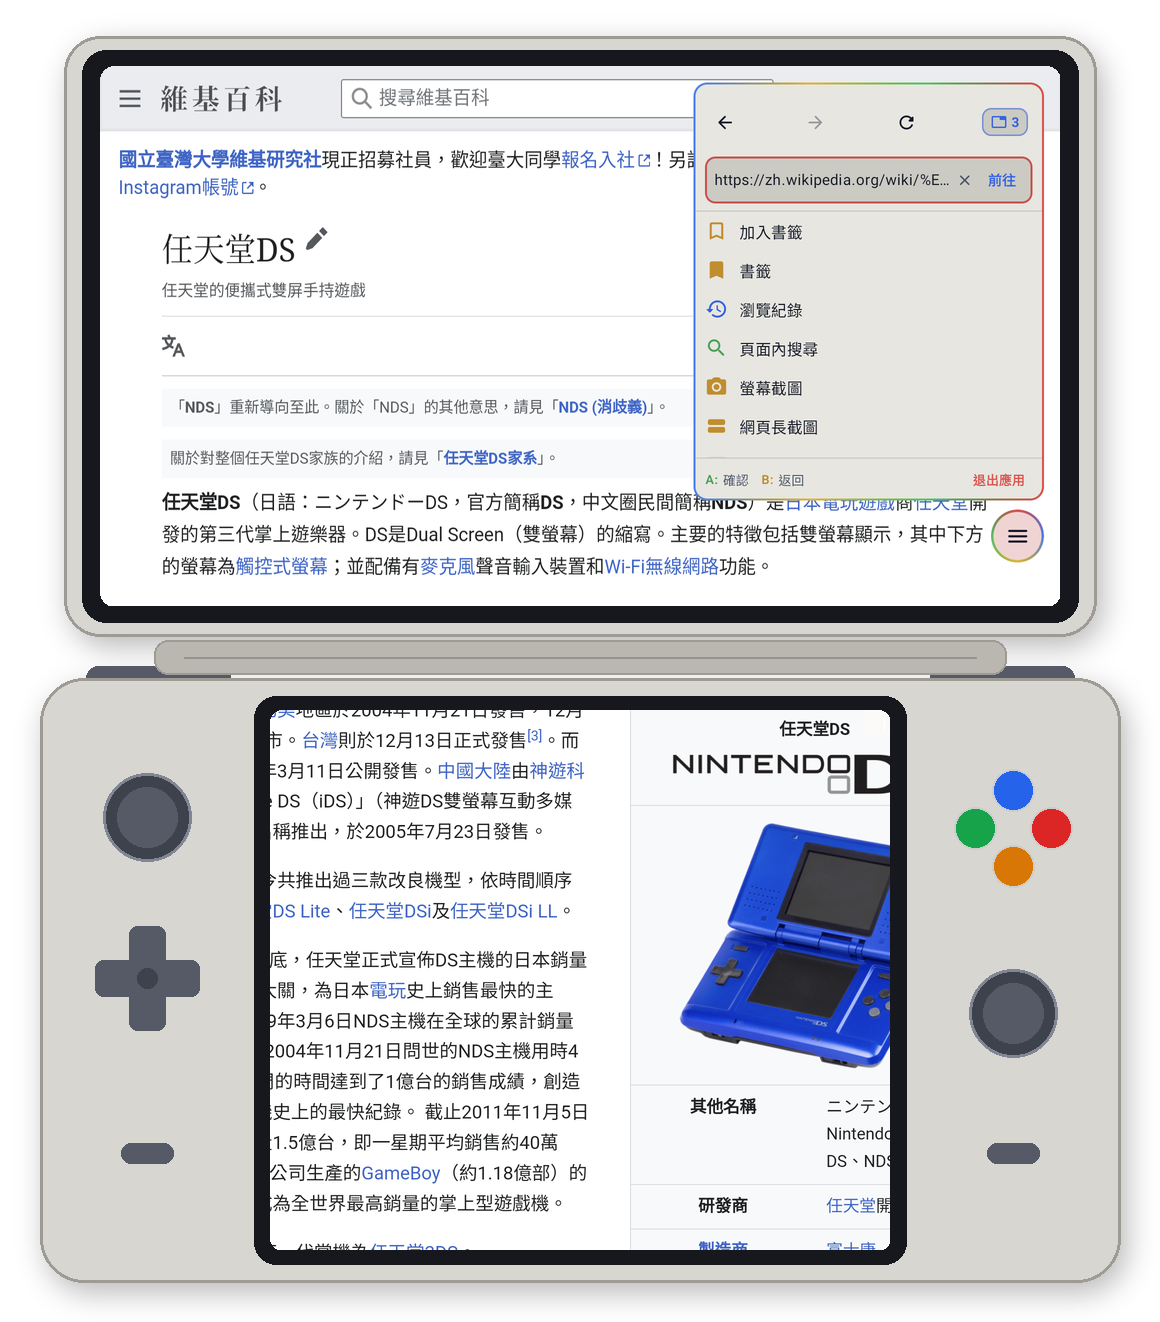
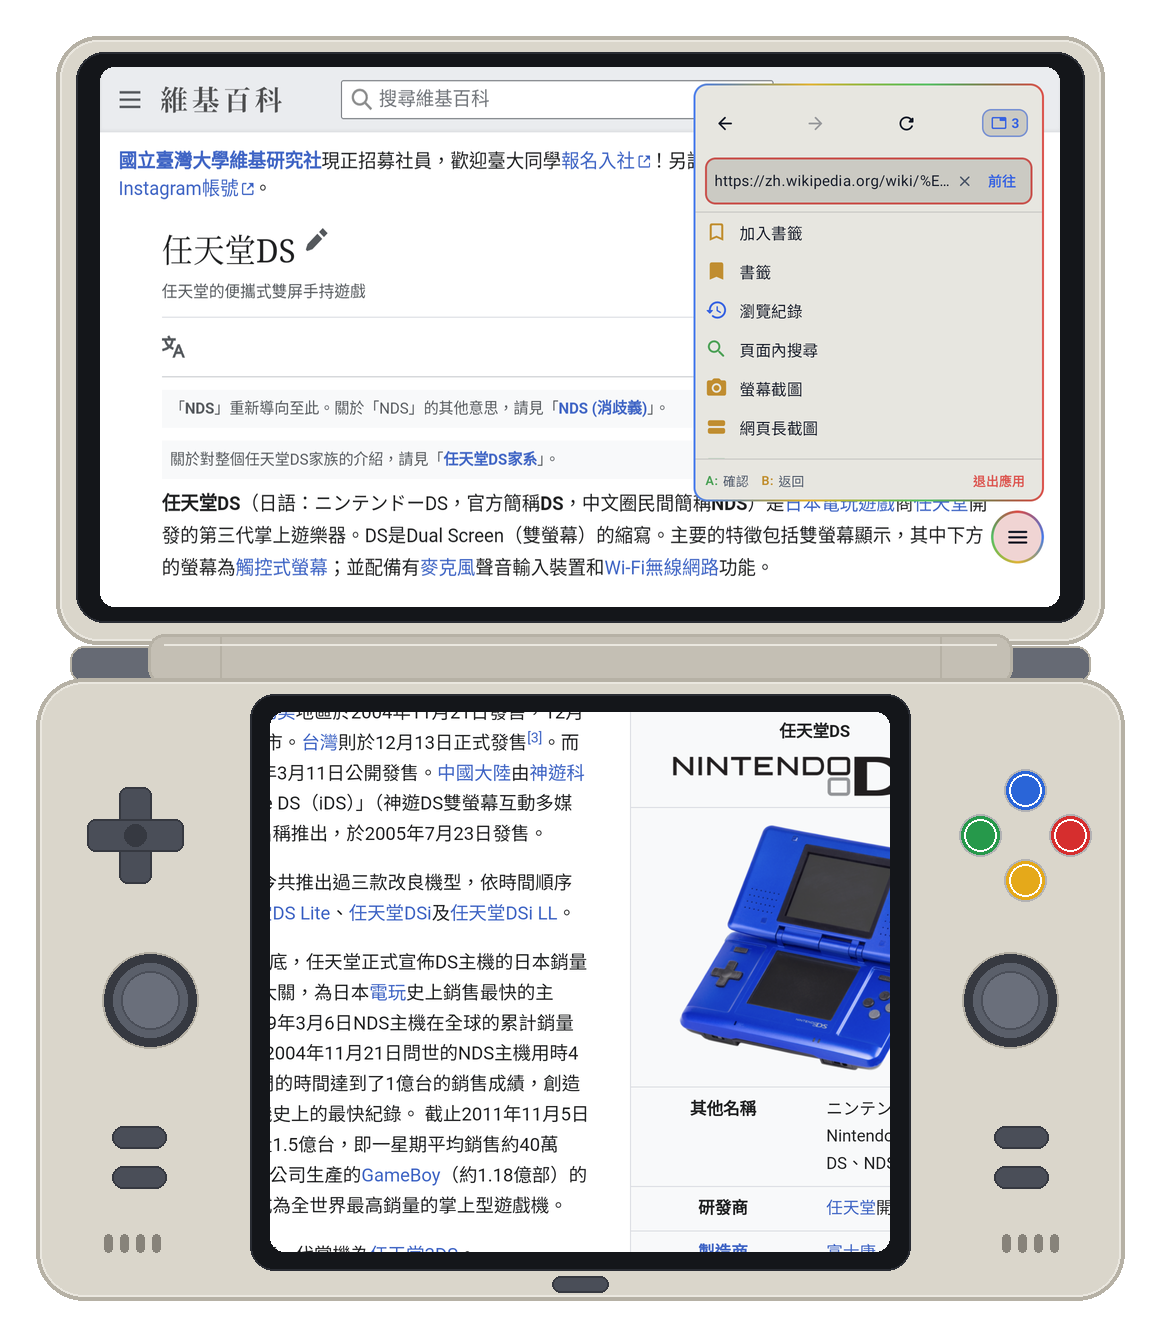
docs: refine AYN Thor Rainbow hardware mockup and unify screenshot widths

diff --git a/README.md b/README.md
@@ -41,7 +41,7 @@
 - **Custom**（自訂色相滑桿）
 
 <p align="center">
-  <img src="docs/screenshots/thor_theme_settings.png" alt="AYN Thor 主機配色主題設定" width="440" />
+  <img src="docs/screenshots/thor_theme_settings.png" alt="AYN Thor 主機配色主題設定" width="420" />
 </p>
 
 ### 4. 手把與下螢幕觸控板
